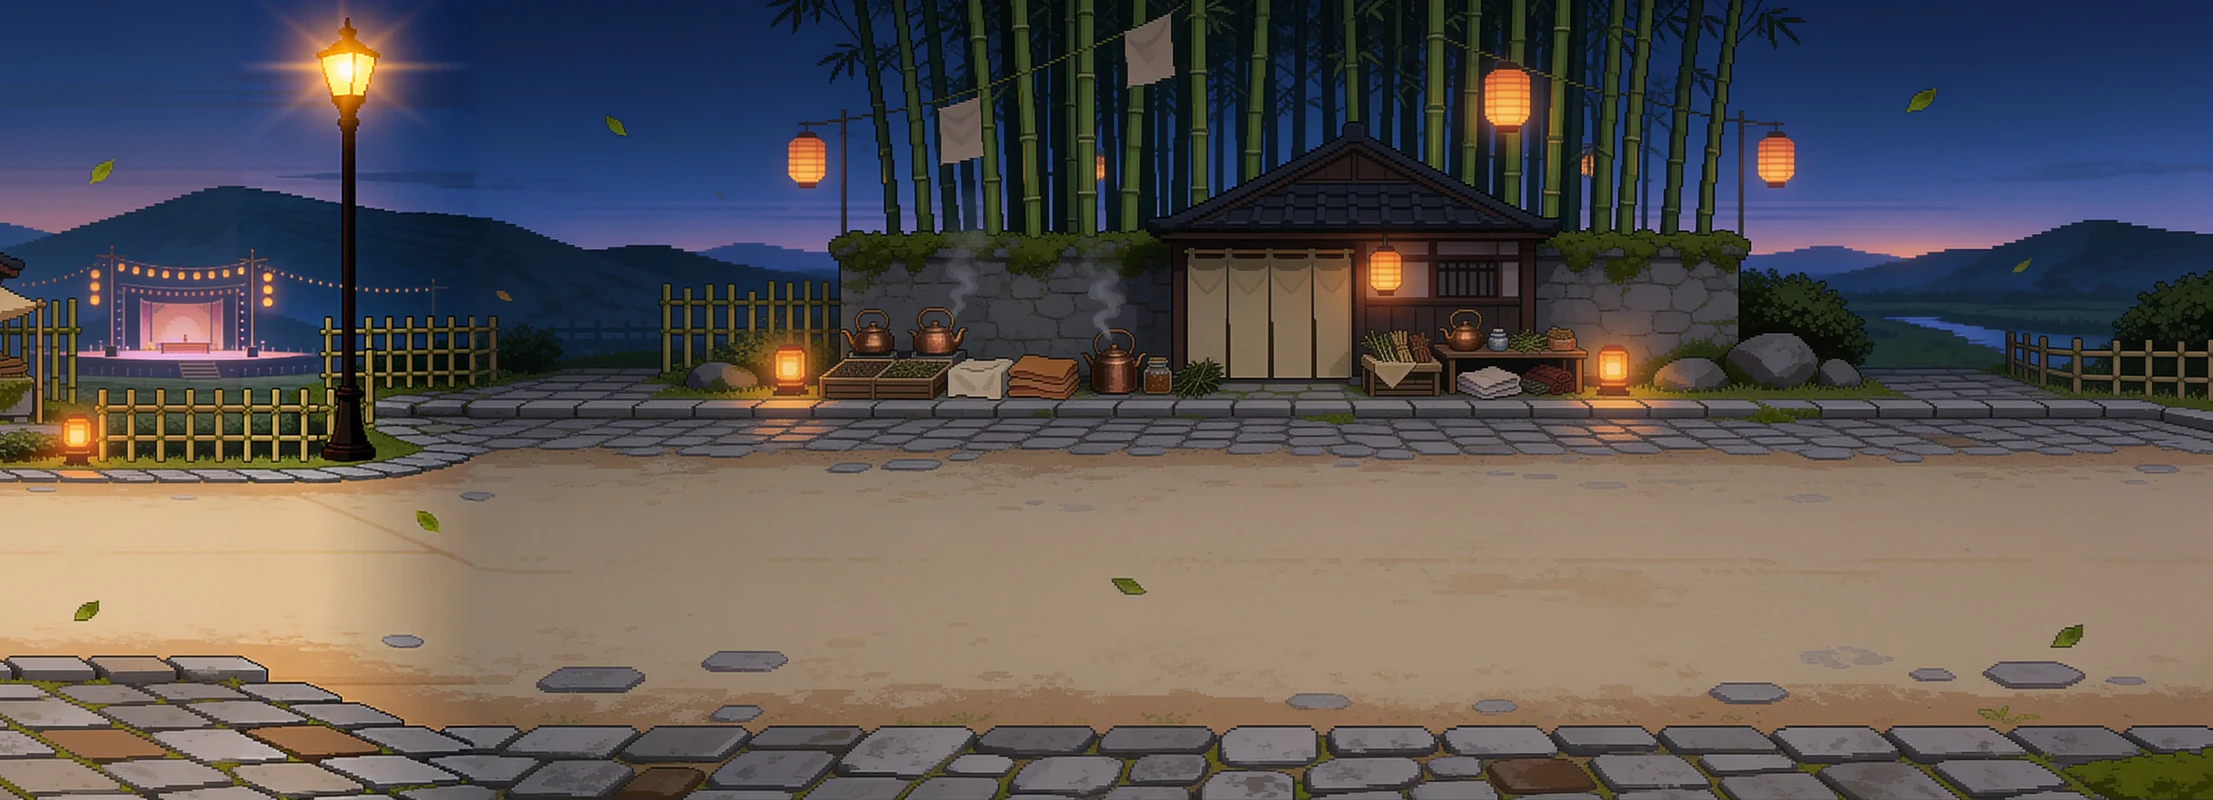
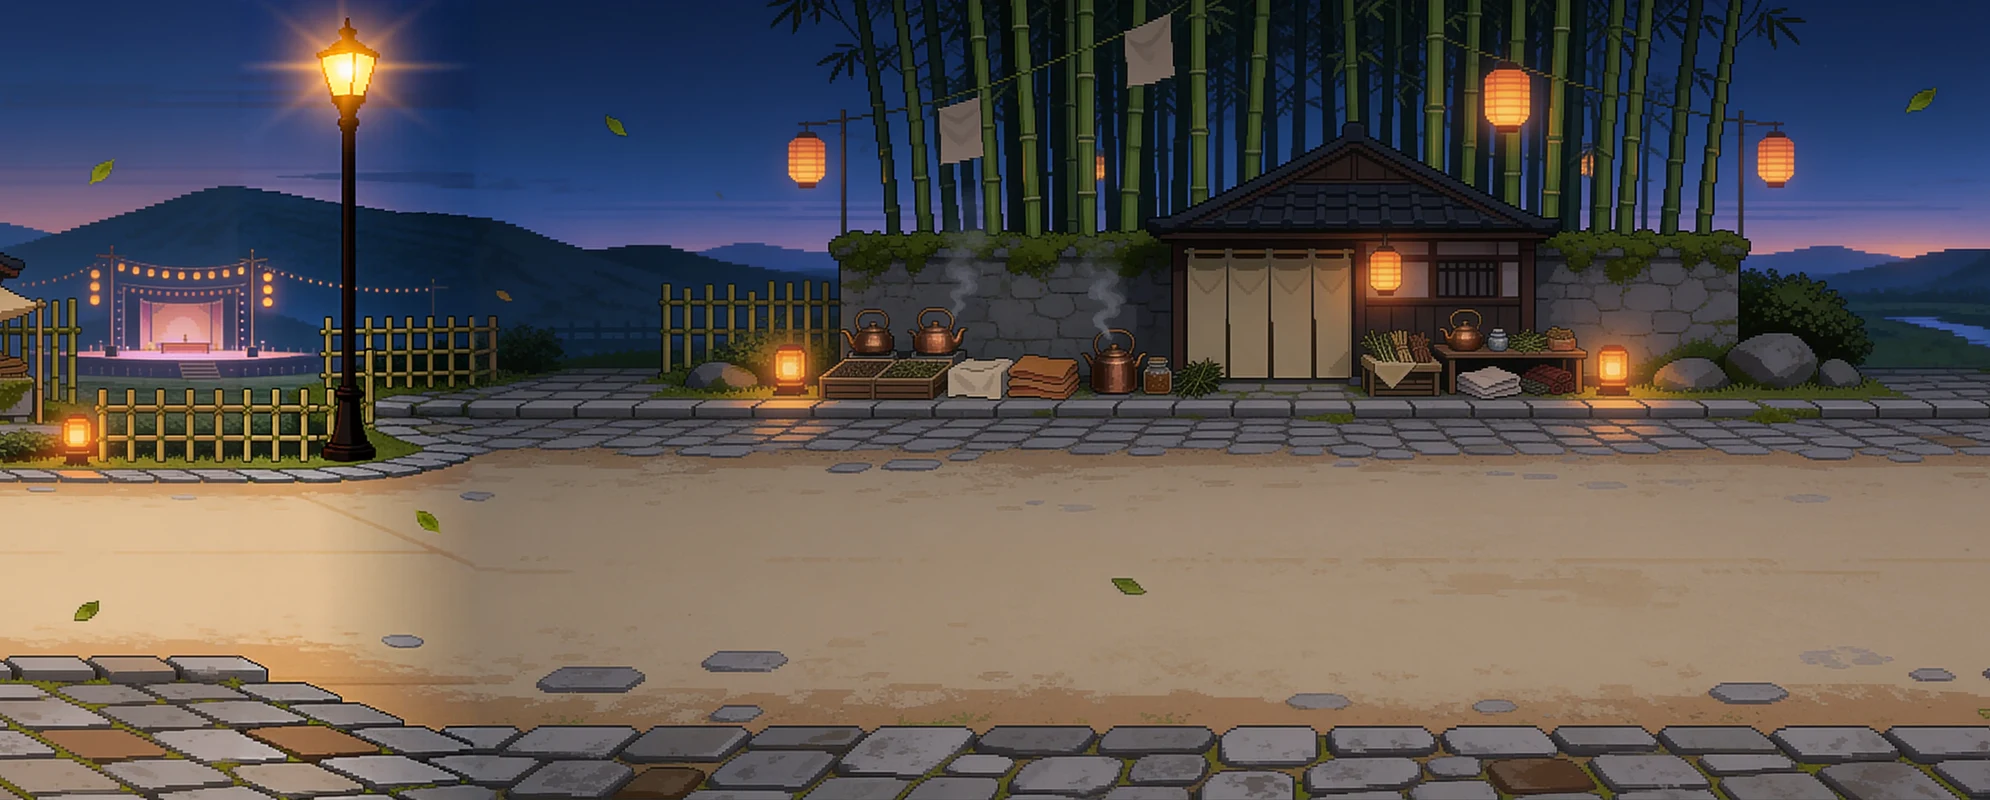
Update lantern crossing race background and debug page
Replit-Commit-Author: Agent

diff --git a/artifacts/mystery-bento/src/index.css b/artifacts/mystery-bento/src/index.css
@@ -549,7 +549,8 @@
 .race-track-debug-scene-label span,
 .race-track-debug-scene-label small { color: #f5c968; font-family: var(--app-font-mono); font-size: 9px; letter-spacing: .12em; text-transform: uppercase; }
 .race-track-debug-scene-label strong { font-size: 16px; }
-.race-track-debug-finish-marker { position: absolute; top: 0; bottom: 0; z-index: 4; width: 4px; transform: translateX(-50%); background: repeating-linear-gradient(180deg, #f6f0dc 0 18px, #d7444b 18px 36px); box-shadow: 0 0 0 2px rgba(23,18,29,.7), 0 0 14px rgba(245,201,104,.9); pointer-events: none; }
+.race-track-debug-finish-marker { --race-finish-marker-angle: -45deg; position: absolute; top: 0; bottom: 0; z-index: 4; width: 0; pointer-events: none; }
+.race-track-debug-finish-marker::before { content: ''; position: absolute; top: 50%; left: 50%; width: 1120px; height: 5px; transform: translate(-50%, -50%) rotate(var(--race-finish-marker-angle)); transform-origin: center; background: repeating-linear-gradient(90deg, #f6f0dc 0 18px, #d7444b 18px 36px); box-shadow: 0 0 0 2px rgba(23,18,29,.7), 0 0 14px rgba(245,201,104,.9); }
 .race-track-debug-finish-marker span { position: absolute; top: 12px; left: 9px; padding: 5px 7px; color: #17121d; background: #f5c968; font-family: var(--app-font-mono); font-size: 10px; font-weight: 700; letter-spacing: .12em; white-space: nowrap; }
 .race-track-debug-help { max-width: 1420px; margin: 18px auto 0; color: #806a85; font-family: var(--app-font-mono); font-size: 11px; }
 .race-track-debug-help kbd { padding: 2px 5px; border: 1px solid #806a55; color: #f8e7c6; background: #30223c; }

diff --git a/artifacts/mystery-bento/src/pages/race-track-debug.tsx b/artifacts/mystery-bento/src/pages/race-track-debug.tsx
@@ -1,6 +1,7 @@
-import { useRef, useState, type KeyboardEvent as ReactKeyboardEvent, type PointerEvent as ReactPointerEvent } from 'react';
+import { useRef, useState, type CSSProperties, type KeyboardEvent as ReactKeyboardEvent, type PointerEvent as ReactPointerEvent } from 'react';
 import {
   RACE_BACKGROUND_CANVAS_HEIGHT_PX,
+  RACE_BACKGROUND_FINISH_MARKER_ANGLE_DEG,
   RACE_BACKGROUND_FINISH_MARKER_X_PX,
   RACE_BACKGROUND_SEQUENCE,
   RACE_BACKGROUND_TRACK_WIDTH_PX,
@@ -93,7 +94,10 @@ export default function RaceTrackDebugPage() {
         >
           <div
             className="race-track-debug-finish-marker"
-            style={{ left: `${RACE_BACKGROUND_FINISH_MARKER_X_PX}px` }}
+            style={{
+              '--race-finish-marker-angle': `${RACE_BACKGROUND_FINISH_MARKER_ANGLE_DEG}deg`,
+              left: `${RACE_BACKGROUND_FINISH_MARKER_X_PX}px`,
+            } as CSSProperties}
             aria-label="Simulation finish line"
           >
             <span>SIM FINISH</span>

diff --git a/artifacts/mystery-bento/src/race-backgrounds.ts b/artifacts/mystery-bento/src/race-backgrounds.ts
@@ -40,9 +40,9 @@ export const RACE_BACKGROUND_SEQUENCE: RaceBackgroundScene[] = [
   {
     id: 'lantern-crossing',
     file: 'race-background-04-lantern-crossing.webp',
-    sourceAsset: 'scene4_1788637581139.webp',
+    sourceAsset: 'scene4-updated_1788656562583.webp',
     label: 'bamboo lantern crossing',
-    aspectRatio: 7172 / 2593,
+    aspectRatio: 6450 / 2593,
   },
   {
     id: 'moonlit-pavilion',
@@ -66,6 +66,7 @@ export const RACE_BACKGROUND_TRACK_WIDTH_MULTIPLIER =
 
 export const RACE_BACKGROUND_FINISH_SCREEN_ANCHOR_PERCENT = 88;
 export const RACE_BACKGROUND_FINISH_MARKER_OFFSET_PX = -200;
+export const RACE_BACKGROUND_FINISH_MARKER_ANGLE_DEG = -45;
 export const RACE_BACKGROUND_FINISH_MARKER_X_PX = Math.round(
   RACE_BACKGROUND_TRACK_WIDTH_PX
   - RACE_BACKGROUND_CANVAS_WIDTH_PX

diff --git a/artifacts/mystery-bento/assets/README.md b/artifacts/mystery-bento/assets/README.md
@@ -18,16 +18,16 @@ folder.
 
 - The original high-resolution race scenes are preserved here. The active
   deterministic course order starts with `scene1_...`, `scene2_...`,
-  `scene3-updated_...`, `scene4_...`, then `scene5_...`.
+  `scene3-updated_...`, `scene4-updated_...`, then `scene5_...`.
 - The earlier lantern-gate and garden-market uploads remain preserved as
   inactive source material.
 - The previous transparent-edge `scene1_...` upload remains preserved as
   inactive source material; the opaque `scene1-small_...` upload is now active.
 - The previous uncropped `scene2_...` upload also remains preserved as inactive
   source material; the cropped `scene2-cropped_...` upload is now active.
-- The previous `scene3-evening-market_...` and `asset_DLD...` uploads remain
-  preserved as inactive source material; the latest scene 3 and scene 4
-  uploads are now active.
+- The previous `scene3-evening-market_...`, `asset_DLD...`, and
+  `scene4_...` uploads remain preserved as inactive source material; the
+  latest scene 3 and scene 4 uploads are now active.
 - The former scene 5 `asset_JLEx...` upload remains preserved as inactive source
   material after being removed from the active course.
 - The previous `asset_mqEP...` destination remains preserved as inactive source
@@ -56,7 +56,7 @@ transparent cutouts and sprite sheets are derived later in the pipeline.
 
 ## Image audit status
 
-- 52 source images are preserved here: one character sheet, 15 race
+- 53 source images are preserved here: one character sheet, 16 race
   backgrounds, 12 obstacle illustrations, and 24 runner-action sheets.
 - The app currently has 12 portraits, 72 movement sheets, 12 public cooking
   sheets, five

diff --git a/artifacts/mystery-bento/README.md b/artifacts/mystery-bento/README.md
@@ -117,7 +117,7 @@ and browser-delivered runtime assets separate.
 
 | Location | Count | Purpose | Status |
 | --- | ---: | --- | --- |
-| `assets/source/images/` | 52 | Character, race-background, obstacle, and runner-action art uploads | Source archive |
+| `assets/source/images/` | 53 | Character, race-background, obstacle, and runner-action art uploads | Source archive |
 | `assets/source/audio/` | 85 | Original announcer recordings for active runtime families | Source archive |
 | `src/assets/derived/contestants/portraits/` | 12 | Opaque contestant portraits | Active imports |
 | `src/assets/derived/contestants/movement/` | 72 | 12 contestants × 6 transparent movement sheets | Active imports |
